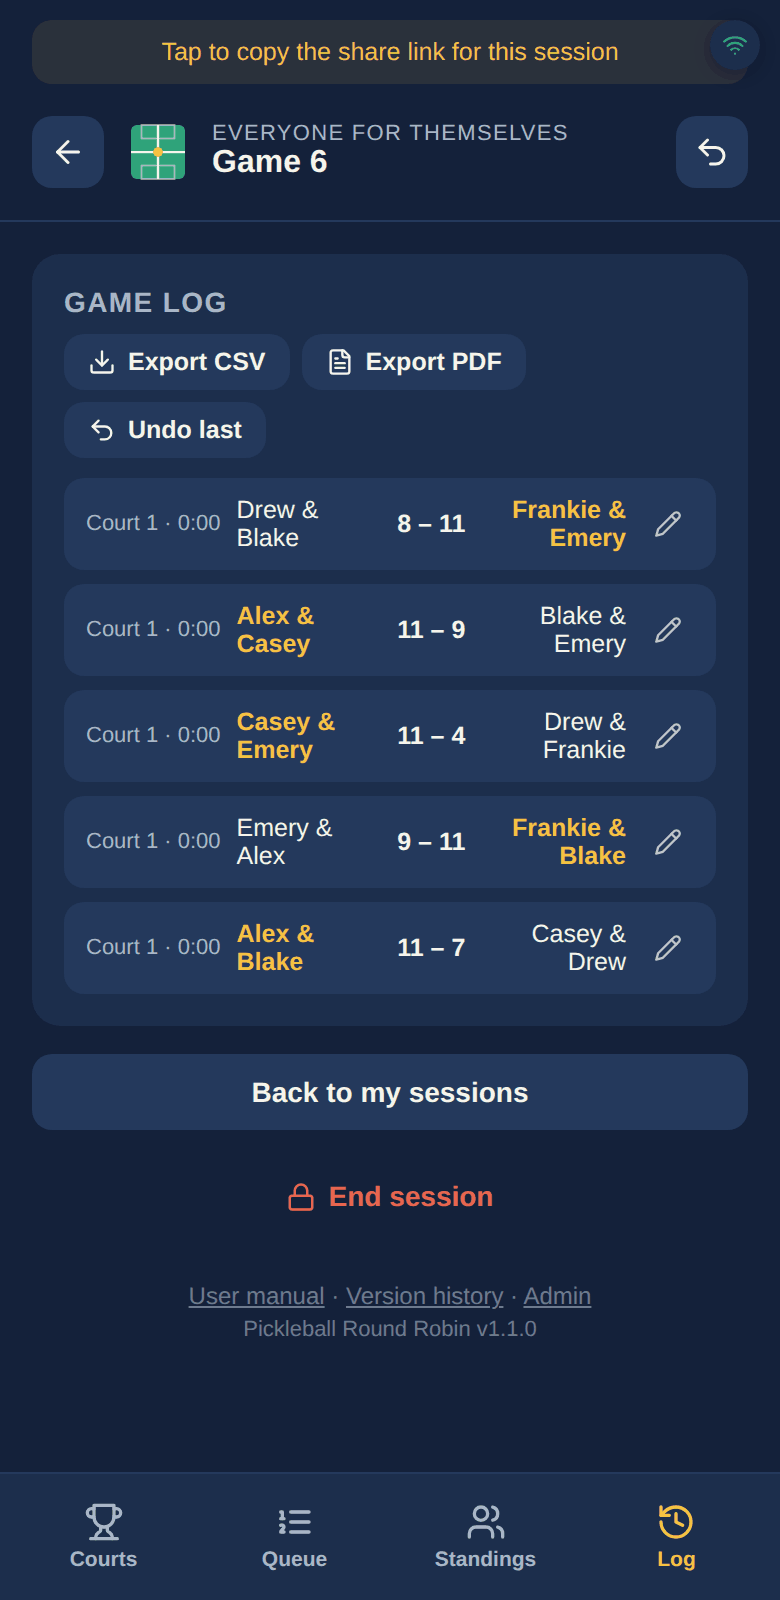
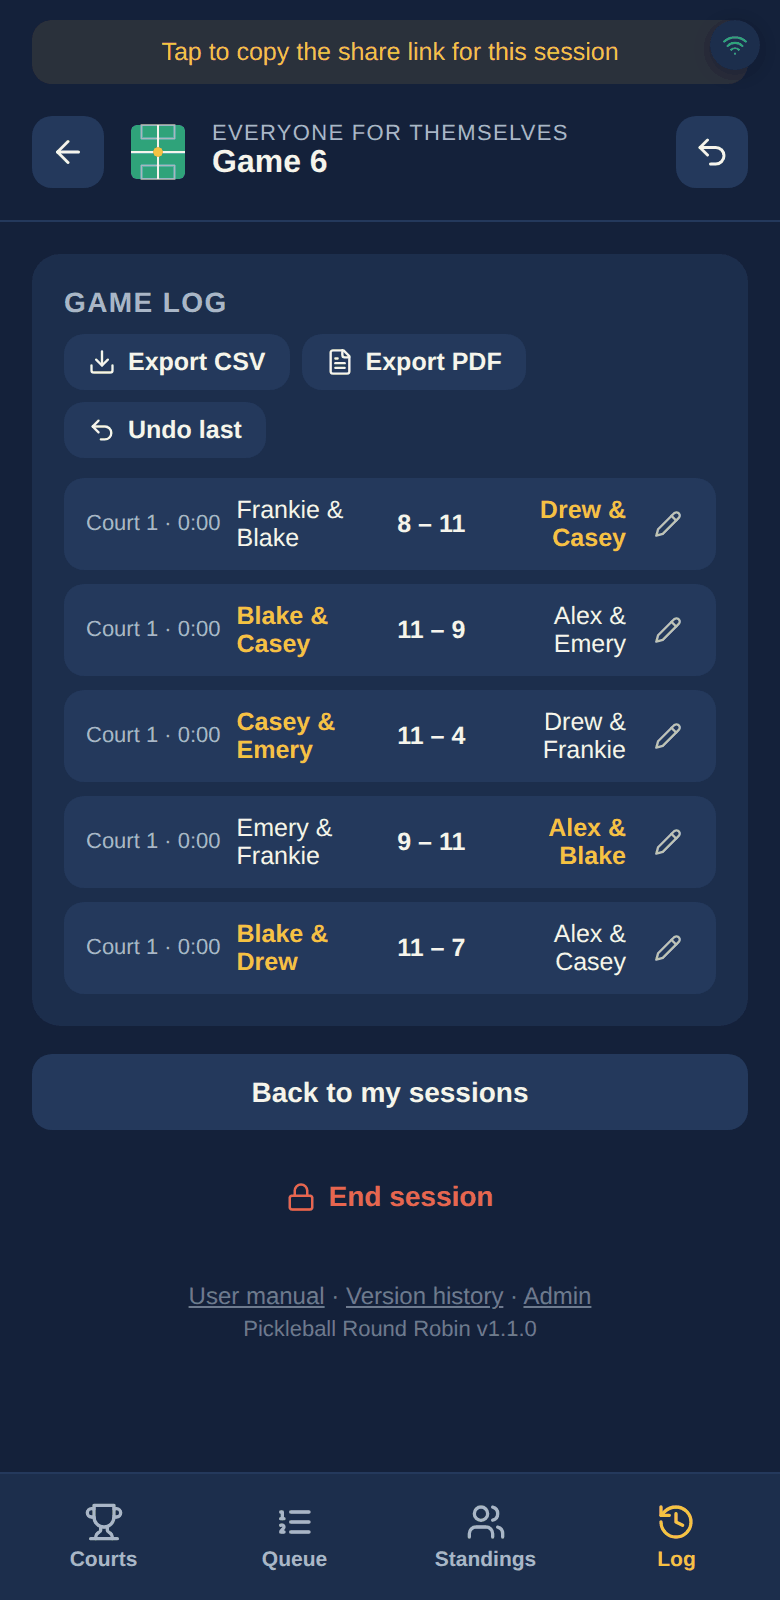
Serves-first label and balancing, avoid exact rematches (1.3.0)

diff --git a/server/reducer.js b/server/reducer.js
@@ -66,6 +66,19 @@ const tierCmp = (a, b) =>
   (a.lastPlayedAt || 0) - (b.lastPlayedAt || 0) ||
   (a.lastPlayedSeq || 0) - (b.lastPlayedSeq || 0);
 
+// --- Serving first -----------------------------------------------------------
+// Side A (shown on top) is always the team that serves first. To keep that
+// fair, each unit counts how many games it has been on Side A (firstServes)
+// and every new match puts the side with the lower total on top (random on a
+// tie). This also flips the sides automatically whenever a matchup repeats.
+const serveLoad = (units, ids) => ids.reduce((sum, id) => sum + ((units[id] && units[id].firstServes) || 0), 0);
+function orientForServe(match, units) {
+  const a = serveLoad(units, match.sideA);
+  const b = serveLoad(units, match.sideB);
+  if (a < b || (a === b && Math.random() < 0.5)) return match;
+  return { ...match, sideA: match.sideB, sideB: match.sideA };
+}
+
 function combinations(arr, k) {
   const res = [];
   const rec = (start, combo) => {
@@ -89,6 +102,11 @@ export function computeWaitingIds(units) {
 }
 
 function pickBest(waitingIds, unitsMap, mode, opponentHist, partnerHist, matchHistory) {
+  const result = pickBestUnoriented(waitingIds, unitsMap, mode, opponentHist, partnerHist, matchHistory);
+  return result ? orientForServe(result, unitsMap) : null;
+}
+
+function pickBestUnoriented(waitingIds, unitsMap, mode, opponentHist, partnerHist, matchHistory) {
   const required = mode === "fixed" ? 2 : 4; // units needed to fill this court
   if (waitingIds.length < required) return null;
 
@@ -171,12 +189,12 @@ function pickBest(waitingIds, unitsMap, mode, opponentHist, partnerHist, matchHi
       let oppScore = 0;
       for (const x of sideA) for (const y of sideB) oppScore += opponentHist[pairKey(x, y)] || 0;
       // Partner repeats first (exhaust every pairing before repeating one),
-      // then prefer repeating the pair that partnered longest ago, then
-      // opponent variety.
+      // then avoid replaying the exact same matchup, then prefer repeating
+      // the pair that partnered longest ago, then opponent variety.
       const recency = recencyOfSides(partnerHist, [sideA, sideB]);
       const exactCount = (matchHistory && matchHistory[matchSig(sideA, sideB)]) || 0;
       const posSum = combo.reduce((s, id) => s + posIndex[id], 0);
-      const key = [partnerScore, recency, oppScore, exactCount, posSum];
+      const key = [partnerScore, exactCount, recency, oppScore, posSum];
       const cmp = bestKey ? cmpKey(key, bestKey) : -1;
       if (!bestKey || cmp < 0) {
         bestKey = key;
@@ -234,10 +252,10 @@ function bestSplitForGroup(group, mode, opponentHist, partnerHist, matchHistory)
     let oppScore = 0;
     for (const x of sideA) for (const y of sideB) oppScore += opponentHist[pairKey(x, y)] || 0;
     const exactCount = (matchHistory && matchHistory[matchSig(sideA, sideB)]) || 0;
-    // One number, ordered: partner repeats >> how recently the repeated
-    // pair last partnered >> opponent repeats and exact rematches. The
+    // One number, ordered: partner repeats >> exact rematches >> how recently
+    // the repeated pair last partnered >> opponent repeats. The
     // multipliers keep each tier from spilling into the next.
-    const score = partnerScore * 1e9 + recencyOfSides(partnerHist, [sideA, sideB]) * 1e4 + oppScore + exactCount * 3;
+    const score = partnerScore * 1e9 + exactCount * 1e8 + recencyOfSides(partnerHist, [sideA, sideB]) * 1e4 + oppScore;
     if (score < bestScore) { bestScore = score; best = { sideA, sideB }; }
   }
   return { ...best, score: bestScore };
@@ -512,6 +530,7 @@ function computeNextPreview(state, court) {
   [...sideA, ...sideB].forEach((id) => {
     units[id] = { ...units[id], gamesPlayed: units[id].gamesPlayed + 1, onCourt: false, lastPlayedAt: now, lastPlayedSeq: state.orderCounter };
   });
+  sideA.forEach((id) => { units[id] = { ...units[id], firstServes: (units[id].firstServes || 0) + 1 }; });
   const opponentHist = { ...state.opponentHist };
   sideA.forEach((a) => sideB.forEach((b) => { const k = pairKey(a, b); opponentHist[k] = (opponentHist[k] || 0) + 1; }));
   let partnerHist = state.partnerHist[LAST] ? { ...state.partnerHist } : withLastFromLog(state.partnerHist, state.log);
@@ -729,6 +748,7 @@ export function reducer(state, action) {
       sideA.forEach((id) => {
         const u = { ...units[id] };
         u.gamesPlayed += 1; u.pointsFor += scoreA; u.pointsAgainst += scoreB;
+        u.firstServes = (u.firstServes || 0) + 1;
         if (aWon) u.wins += 1; else u.losses += 1;
         u.onCourt = false; u.lastPlayedAt = endedAt; u.lastPlayedSeq = order;
         units[id] = u;
@@ -822,7 +842,8 @@ export function reducer(state, action) {
 
         if (layout) {
           finalUnits = { ...normalizedUnits };
-          layout.forEach((m) => {
+          const oriented = layout.map((m) => orientForServe(m, normalizedUnits)); // new array: the layout may be a stored plan round
+          oriented.forEach((m) => {
             [...m.sideA, ...m.sideB].forEach((id) => { finalUnits[id] = { ...finalUnits[id], onCourt: true }; });
           });
           // Same miss-streak bookkeeping fillAllEmptyCourts does normally:
@@ -833,7 +854,7 @@ export function reducer(state, action) {
           });
           const startedAt = Date.now();
           newCourtsState = courtsState.map((c) => {
-            const m = layout.find((l) => l.courtId === c.id);
+            const m = oriented.find((l) => l.courtId === c.id);
             return m ? { ...c, match: { sideA: m.sideA, sideB: m.sideB, startedAt } } : c;
           });
           if (noBench && shufflePlan) shufflePlan = { ...shufflePlan, index: shufflePlan.index + 1 };
@@ -890,6 +911,7 @@ export function reducer(state, action) {
       lastEntry.sideA.forEach((id) => {
         const u = { ...units[id] };
         u.gamesPlayed -= 1; u.pointsFor -= lastEntry.scoreA; u.pointsAgainst -= lastEntry.scoreB;
+        u.firstServes = Math.max(0, (u.firstServes || 0) - 1);
         if (aWon) u.wins -= 1; else u.losses -= 1;
         u.onCourt = true;
         units[id] = u;

diff --git a/client/src/Help.jsx b/client/src/Help.jsx
@@ -146,8 +146,15 @@ function Manual() {
           players on the other court haven't had their turn yet.
         </p>
         <p>
-          For partners, it uses every possible pairing before repeating one. When a repeat can't be avoided, it repeats the
-          pair that played together longest ago, so you won't get the same partner in two games in a row.
+          For partners, it uses every possible pairing before repeating one. When a repeat can't be avoided, it avoids
+          replaying the exact same game (the same two teams against each other), and then repeats the pair that played
+          together longest ago, so you won't get the same partner in two games in a row.
+        </p>
+        <h3 className="pbr-help-h3">Who serves first</h3>
+        <p>
+          On every court, the <strong>top team serves first</strong>, marked with a green <strong>Serves first</strong> label.
+          The app keeps this fair by counting how often each player has been on top and putting the team with the fewer
+          counts there. When the same two teams meet again, the sides flip.
         </p>
 
         <h3 className="pbr-help-h3">Adding a court during a session</h3>

diff --git a/client/src/PickleballApp.jsx b/client/src/PickleballApp.jsx
@@ -738,6 +738,7 @@ function CourtMatch({ court, state, draft, setDraft, onSubmit, editing, dispatch
   return (
     <div className="pbr-match">
       <div className="pbr-court-svg-wrap"><CourtLines /></div>
+      <div className="pbr-serve-tag">Serves first</div>
       <div className="pbr-side pbr-side-a">
         {editing ? (
           <div className="pbr-lineup-edit">
@@ -1153,6 +1154,7 @@ export function Styles() {
       .pbr-court-lines-svg { width: 100%; height: 100%; }
       .pbr-side { position: relative; display: flex; justify-content: space-between; align-items: center; padding: 10px 4px; }
       .pbr-side-a { border-left: 3px solid var(--green); padding-left: 12px; }
+      .pbr-serve-tag { position: relative; font-size: 10.5px; font-weight: 800; letter-spacing: 0.06em; text-transform: uppercase; color: var(--green); padding: 2px 0 0 15px; }
       .pbr-side-b { border-left: 3px solid var(--coral); padding-left: 12px; }
       .pbr-side-names { font-size: 15px; font-weight: 600; }
       .pbr-name-tap { background: none; border: none; padding: 0; margin: 0; font: inherit; color: inherit; cursor: pointer; border-bottom: 1px dashed transparent; }

diff --git a/client/src/changelog.js b/client/src/changelog.js
@@ -15,6 +15,14 @@
 
 export const RELEASES = [
   {
+    version: "1.3.0",
+    date: "2026-10-21",
+    changes: [
+      "New: Serves first. The top team on each court serves first, with a green label, and the app balances who is on top so serving first is shared fairly. When the same two teams meet again, the sides flip.",
+      "Fixed: In small groups the app could replay the exact same game (the same two teams against each other) over and over. It now avoids replaying a game before trying other matchups.",
+    ],
+  },
+  {
     version: "1.2.0",
     date: "2026-10-14",
     changes: [
